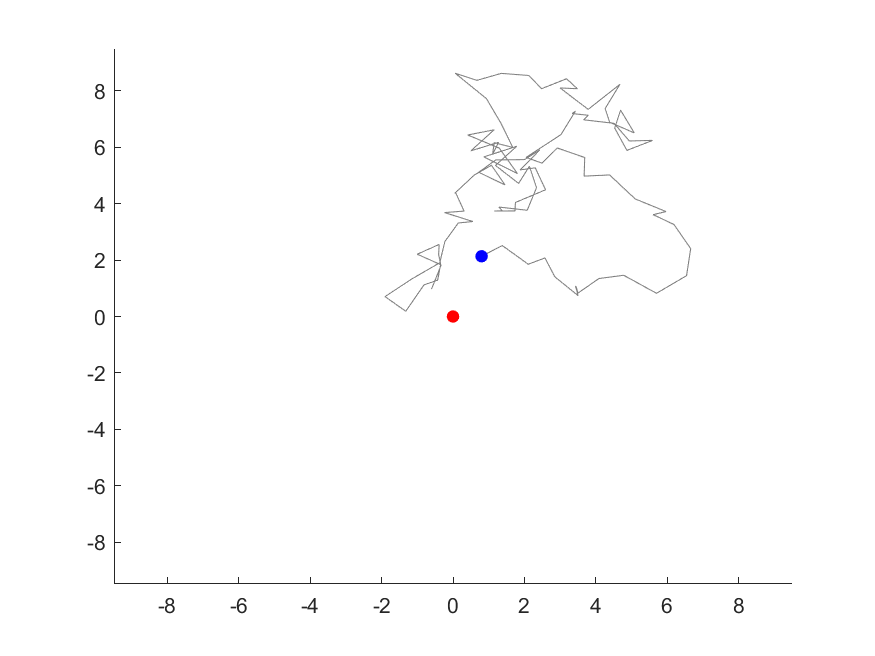
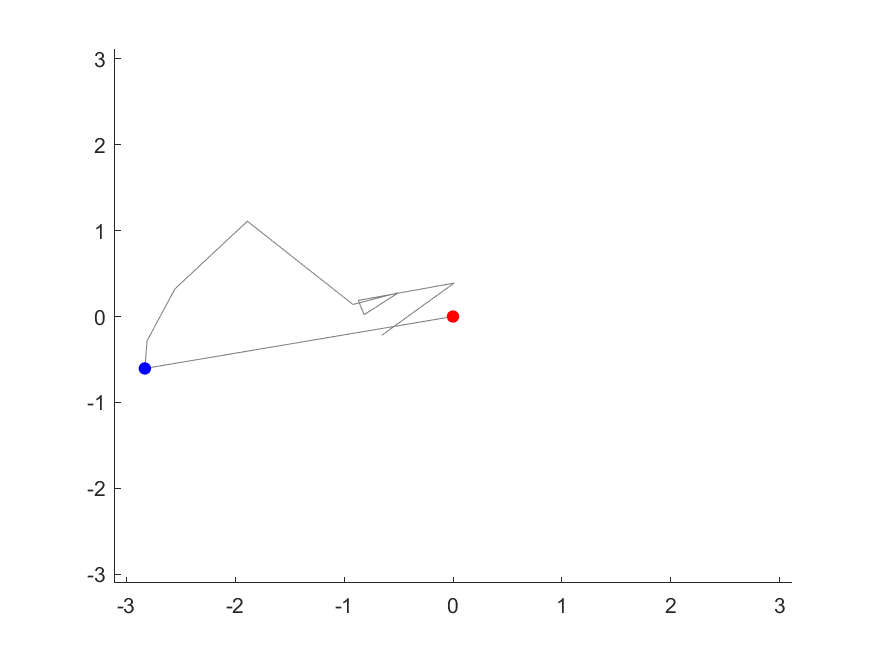
hw8 done

diff --git a/hw/08/main.m b/hw/08/main.m
@@ -9,7 +9,17 @@ last_pos = zeros(n_par, 2);
 % save absolute coordinate for x and y limits in plot
 c_max = 0;
 
-% for every particle calculate and plot its position
+% get user input for wind direction and wind intensity
+disp("tvoja")
+wind_dir = input("Enter wind direction [degrees]: ");
+wind_str = input("Enter wind strength: ");
+
+% function makes a random number in interval [-1,1]
+function r = gen_rand_num()
+    r = 2 * rand - 1;
+end
+
+% for every particle it calculates and plots its position
 figure
 hold on
 for p = 1 : n_par
@@ -22,10 +32,39 @@ for p = 1 : n_par
     y = 0;
 
     for s = 1 : n_step
-        % calculate x and y coordinate and store it in array
-        % random value in [-1,1], since rand gives values in [0,1]
-        x = x + 2 * rand - 1;
-        y = y + 2 * rand - 1;
+        % [[ calculate x and y coordinate ]] 
+
+        % wind_str is used to to make the step bigger in general.
+        % Adds alpha to "normalize" inputs (0 means step will be coordinate 0)
+        % (alpha was chosen through experimentation with different values).
+        % Takes the absolute value of wind strength, to handle negative
+        % values passed by the user.
+        alpha = 0.3;
+        str_influence = abs(wind_str) * alpha;
+        
+        % wind_dir is used with sin and cos to get x and y, respectively, to
+        % make x and y bigger or smaller (or nothing) based on wind diretion.
+        % Since sin and cos accept radians, the degree of angle passed as
+        % wind_dir has to be converted first.
+        %     e.g. wind_dir = 0 => North to South => all x coordinates get 
+        %     smaller, while y coordinates don't change
+
+        % Strength influence 0 means that no external force from wind is
+        % affecting our particles, therefore angle influence will be put to
+        % 0 by multiplication.
+        wind_dir_rad = deg2rad(wind_dir);
+        ang_influence_x = sin(wind_dir_rad) * str_influence;
+        ang_influence_y = cos(wind_dir_rad) * str_influence;
+
+        % get_rand_num makes a random number, that gets added to base
+        % coordinates (0,0). Angle influence is subtracted, since sin and
+        % cos point IN the wind direction. To make a particle move in the
+        % opposite direction, the values are reversed.
+        x = x + gen_rand_num() - ang_influence_x;
+        y = y + gen_rand_num() - ang_influence_y;
+
+        % x = x + 2 * rand - 1;
+        % y = y + 2 * rand - 1;
         position(s, 1) = x;
         position(s, 2) = y;
     end

diff --git a/hw/08/circle.m b/hw/08/circle.m
@@ -1,0 +1,31 @@
+% plots a circle in area [-2,2] in both x and y axis with coordinate axes
+fprintf("sin(1): %d\n", sin(deg2rad(1)));
+fprintf("sin(0): %d\n", sin(deg2rad(0)));
+fprintf("cos(1): %d\n", cos(deg2rad(1)));
+fprintf("cos(0): %d\n", cos(deg2rad(0)));
+
+% Plot the axes lines first
+hold on  % allows multiple plots on same figure
+plot([-1.5 1.5], [0 0], 'k-', 'LineWidth', 1)  % x-axis in both x and y axis
+plot([0 0], [-1.5 1.5], 'k-', 'LineWidth', 1)  % y-axis
+
+% Plot the circle
+theta = linspace(0, 2*pi, 100);  % create 100 points around the circle
+r = 1;  % radius of the circle
+x = r * cos(theta);  % x coordinates
+y = r * sin(theta);  % y coordinates
+
+plot(x, y);  % plot the circle
+axis equal;  % make the aspect ratio 1:1
+grid on;     % add grid
+xlim([-1.5 1.5]);  % set x axis limits
+ylim([-1.5 1.5]);  % set y axis limits
+title('Unit Circle with Coordinate Axes');
+
+scatter(1, 0, 'filled');
+scatter(-1, 0, 'filled');
+scatter(0, 1, 'filled');
+scatter(0, -1, 'filled');
+
+
+hold off    % release the plot hold

diff --git a/matlabNotes/scripts/exc8/script.m b/matlabNotes/scripts/exc8/script.m
@@ -1,7 +1,7 @@
 clear 
 close
 % define number of steps and number of particles
-Nstep = 100; % number of steps
+Nstep = 10; % number of steps
 Np = 1; % number of particles
 %
 cMax = 0; % save abs max coordinate for x and y limits / plot
